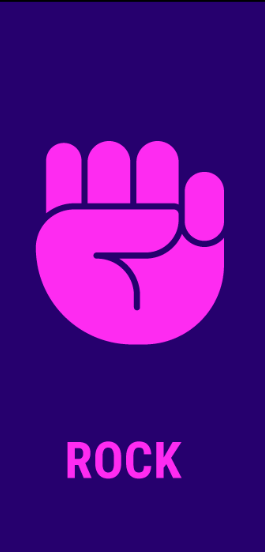
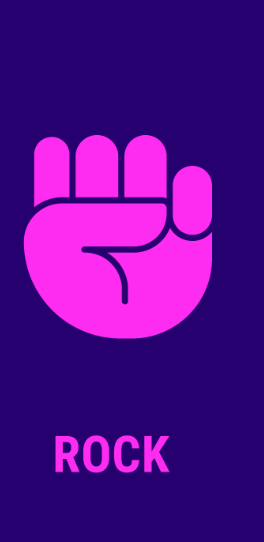
fix persisting image crop issue again

Changed region(s): [[0.0909, 0.2362, 0.8485, 0.6494], [0.1818, 0.797, 0.697, 0.8856], [0.0, 0.0, 1.0, 0.0295]]

diff --git a/index.html b/index.html
@@ -15,6 +15,9 @@
             <button type="button" class="paper"><img src="images/paper.png" width="260" height="500" alt="paper"></button>
             <button type="button" class="scissors"><img src="images/scissors.png" width="260" height="500" alt="scissors"></button>
         </div>
+        <div class="initiate">
+            <button>PLAY</button>
+        </div>
         <h3 class="result"></h2>
         <script src="script.js"></script>        
     </body>

diff --git a/styles.css b/styles.css
@@ -9,6 +9,15 @@ body {
     background-color: rgb(38,0,110);
 }
 
+button {
+    padding: 2px;
+    border-color: #211338;
+    background-color: #211338;  
+    border-style: solid;
+    border-radius: 10px;
+}
+
+
 .rps-choices {
     display: flex;
     justify-content: space-evenly;
